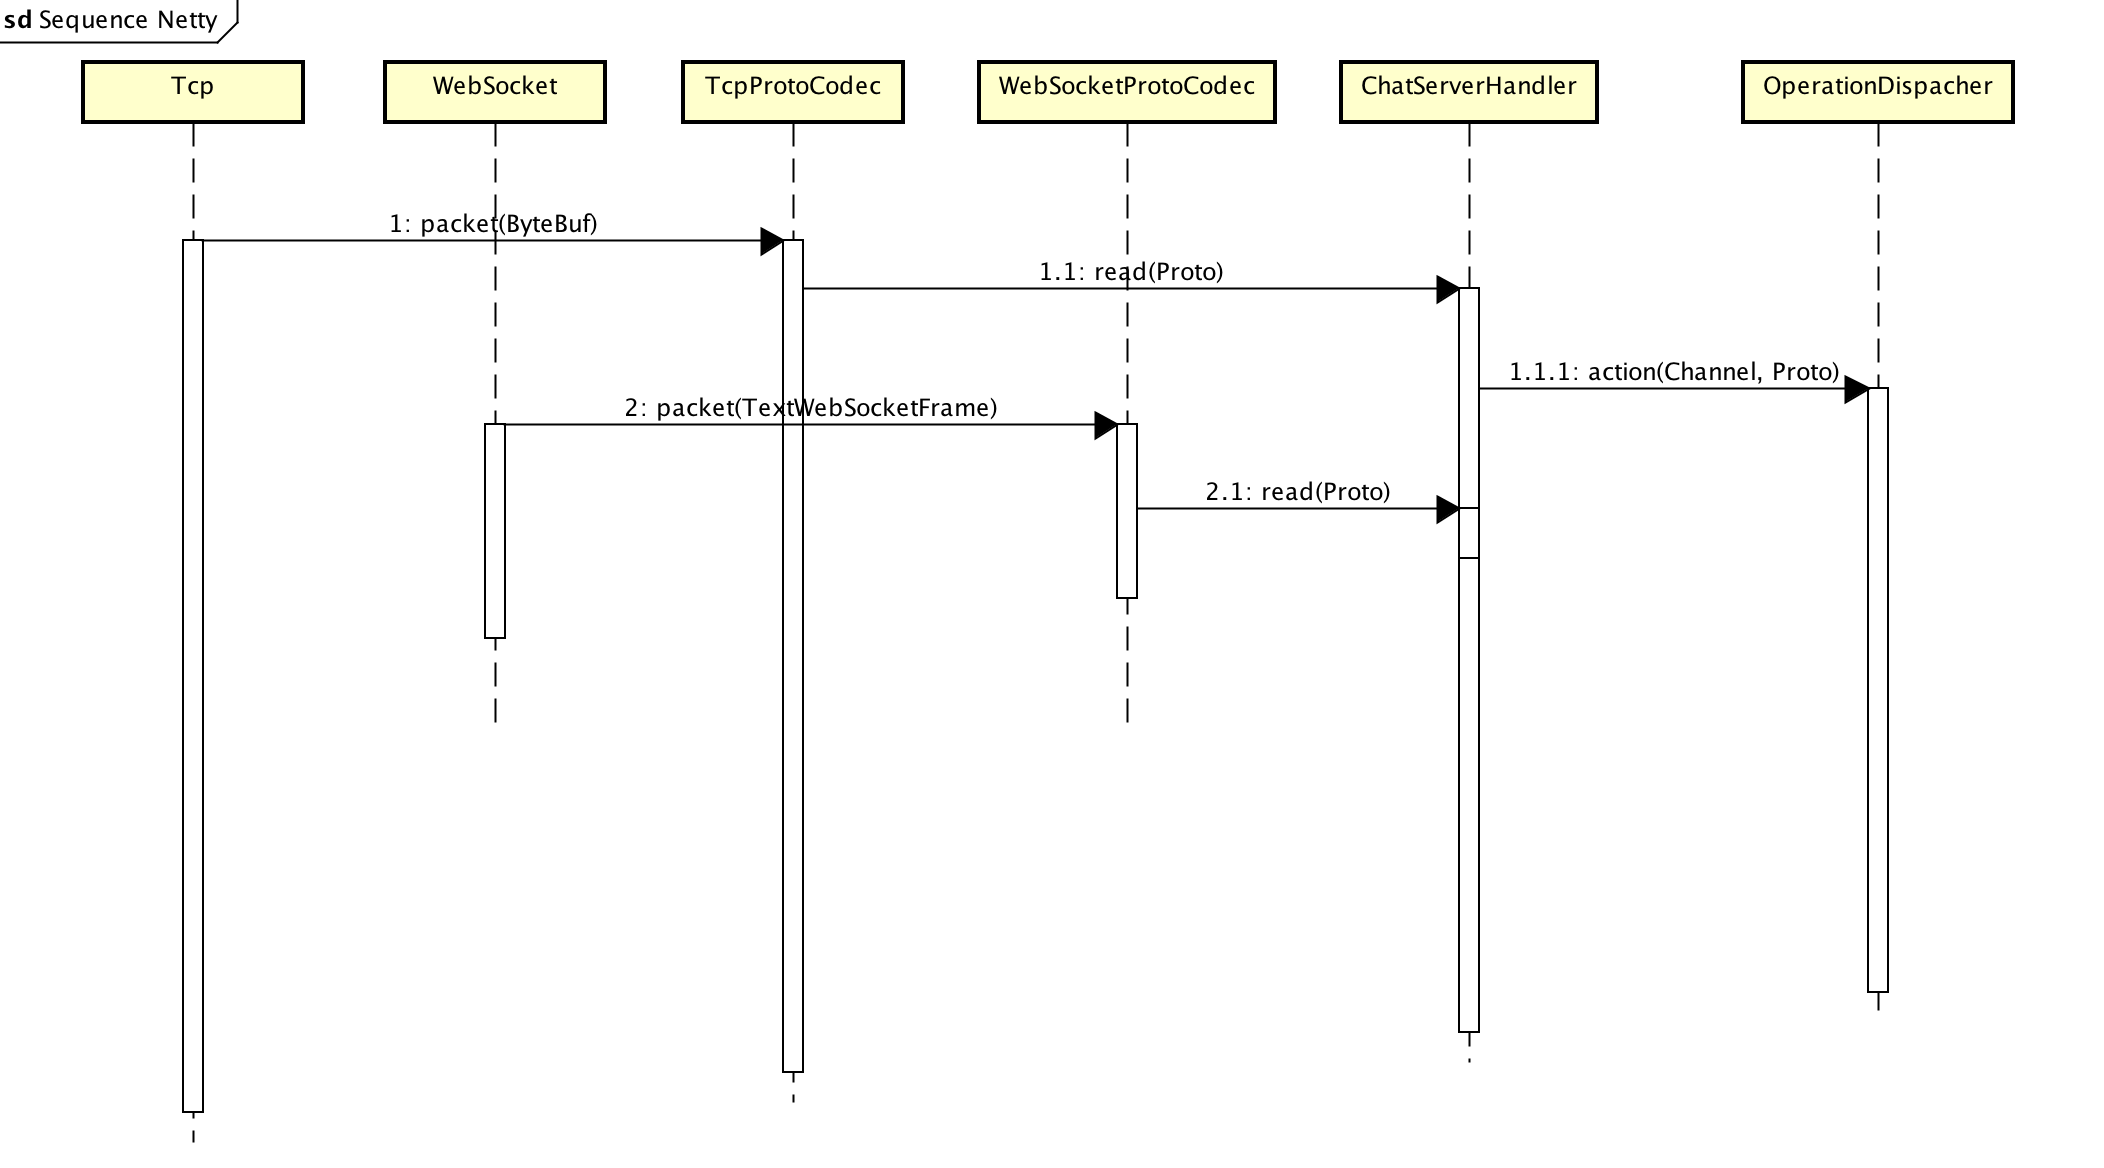
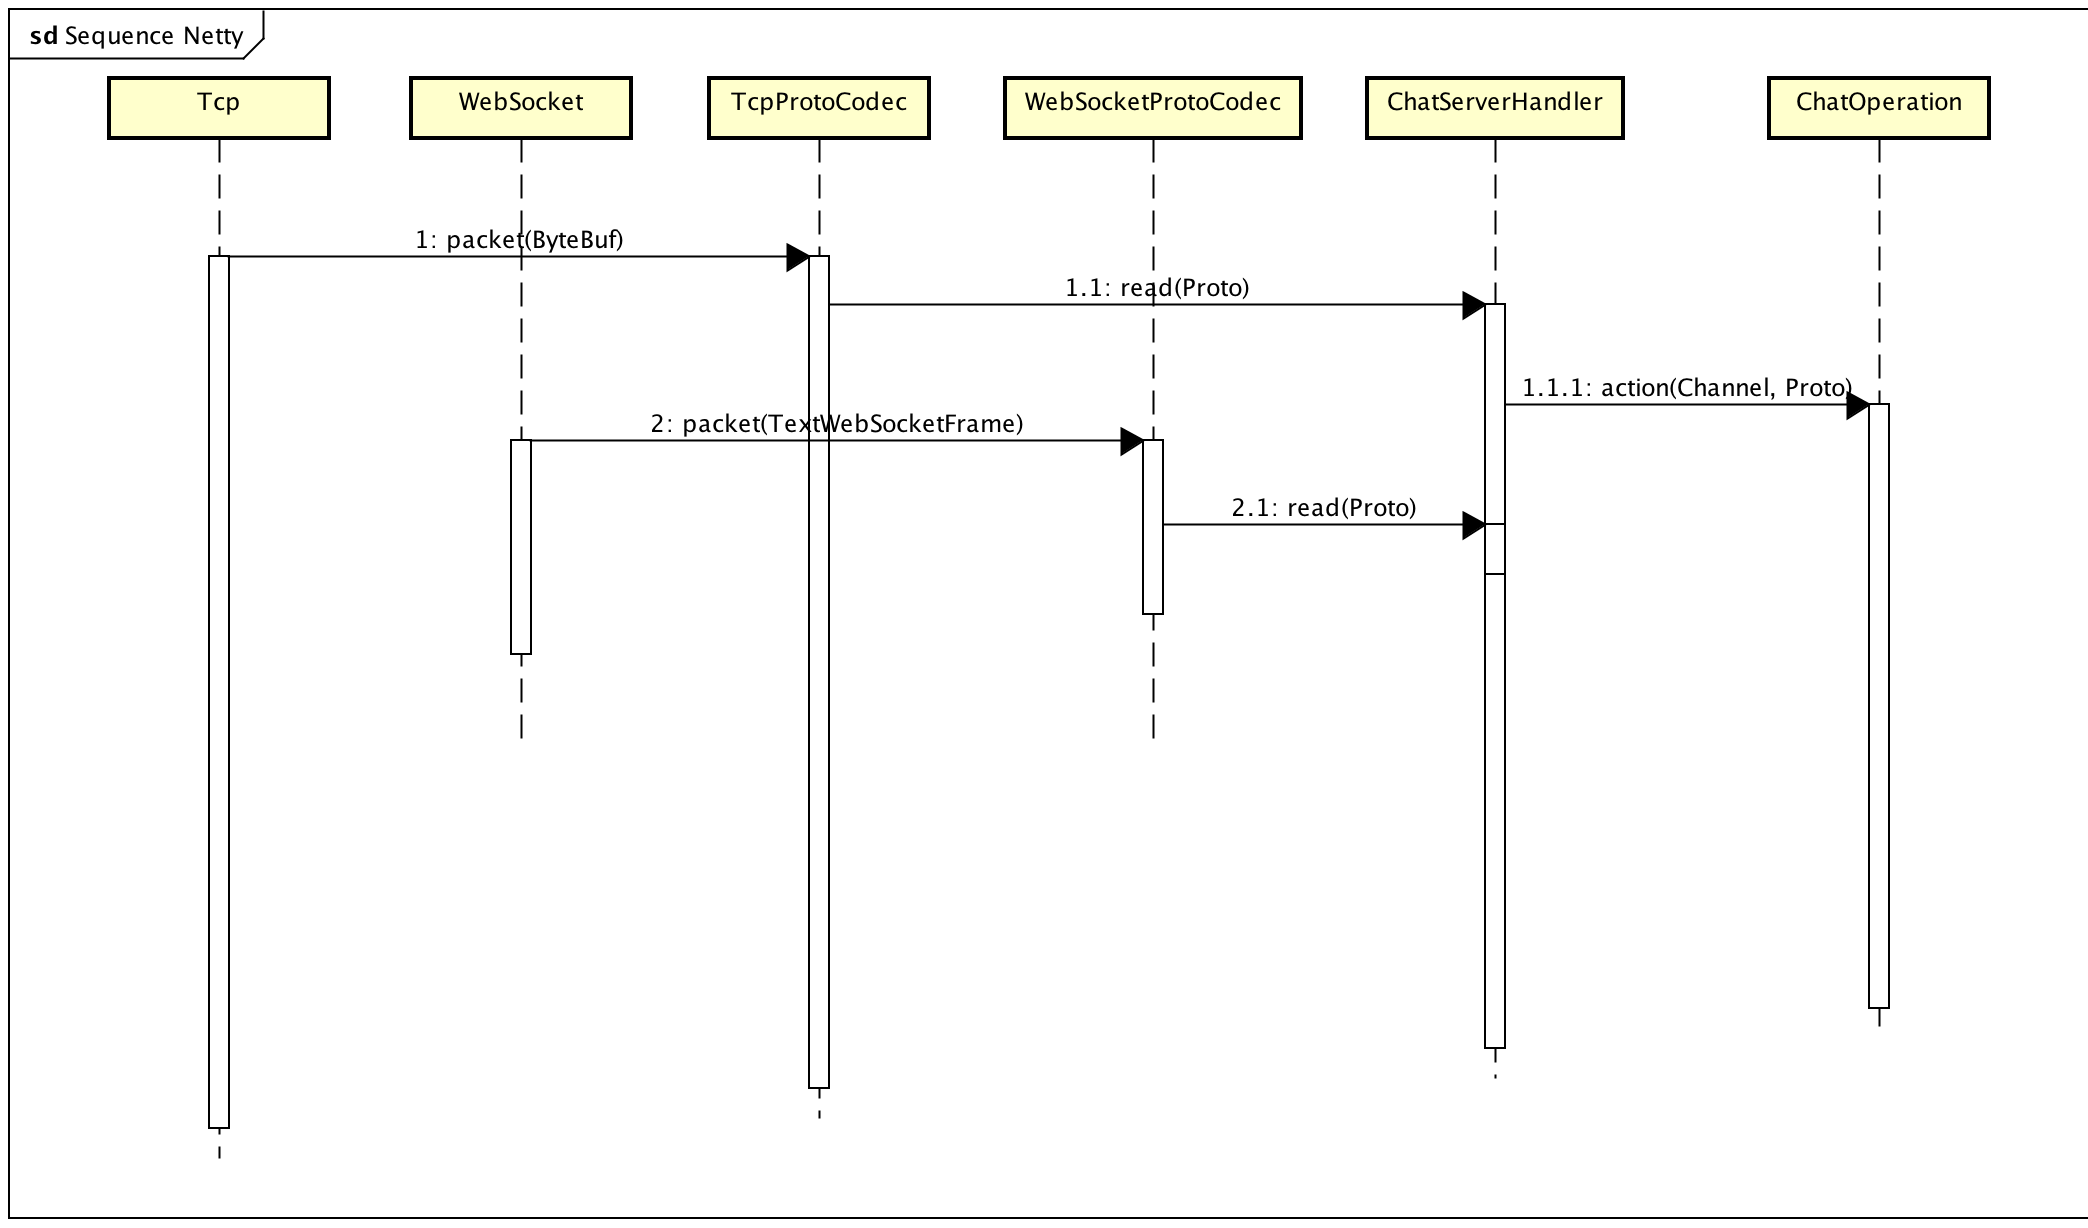
rename ChatOperation.

diff --git a/comet/src/main/java/wiki/tony/chat/comet/handler/ChatServerHandler.java b/comet/src/main/java/wiki/tony/chat/comet/handler/ChatServerHandler.java
@@ -10,7 +10,7 @@ import org.springframework.beans.factory.annotation.Value;
 import org.springframework.stereotype.Component;
 import wiki.tony.chat.comet.bean.Proto;
 import wiki.tony.chat.comet.exception.NotAuthException;
-import wiki.tony.chat.comet.manager.OperationManager;
+import wiki.tony.chat.comet.ChatOperation;
 import wiki.tony.chat.comet.operation.Operation;
 
 /**
@@ -25,13 +25,13 @@ public class ChatServerHandler extends SimpleChannelInboundHandler<Proto> {
     private static final Logger LOG = LoggerFactory.getLogger(ChatServerHandler.class);
 
     @Autowired
-    private OperationManager operationManager;
+    private ChatOperation chatOperation;
     @Value("${server.id}")
     private int serverId;
 
     @Override
     protected void channelRead0(ChannelHandlerContext ctx, Proto proto) throws Exception {
-        Operation op = operationManager.find(proto.getOperation());
+        Operation op = chatOperation.find(proto.getOperation());
         // execute operation
         if (op != null) {
             LOG.debug(proto.toString());

diff --git a/comet/src/main/java/wiki/tony/chat/comet/ChatOperation.java b/comet/src/main/java/wiki/tony/chat/comet/ChatOperation.java
@@ -1,5 +1,6 @@
-package wiki.tony.chat.comet.manager;
+package wiki.tony.chat.comet;
 
+import com.google.common.collect.Maps;
 import org.springframework.beans.factory.annotation.Autowired;
 import org.springframework.context.ApplicationContext;
 import org.springframework.context.annotation.Bean;
@@ -7,18 +8,17 @@ import org.springframework.stereotype.Component;
 import wiki.tony.chat.comet.operation.Operation;
 
 import java.util.Map;
-import java.util.concurrent.ConcurrentHashMap;
 
 /**
  * Created by Tony on 4/14/16.
  */
 @Component
-public class OperationManager {
+public class ChatOperation {
 
     @Autowired
     private ApplicationContext applicationContext;
 
-    private Map<Integer, Operation> ops = new ConcurrentHashMap<Integer, Operation>();
+    private Map<Integer, Operation> ops = Maps.newConcurrentMap();
 
     @Bean(name = "operations")
     public Map<Integer, Operation> operations() {
